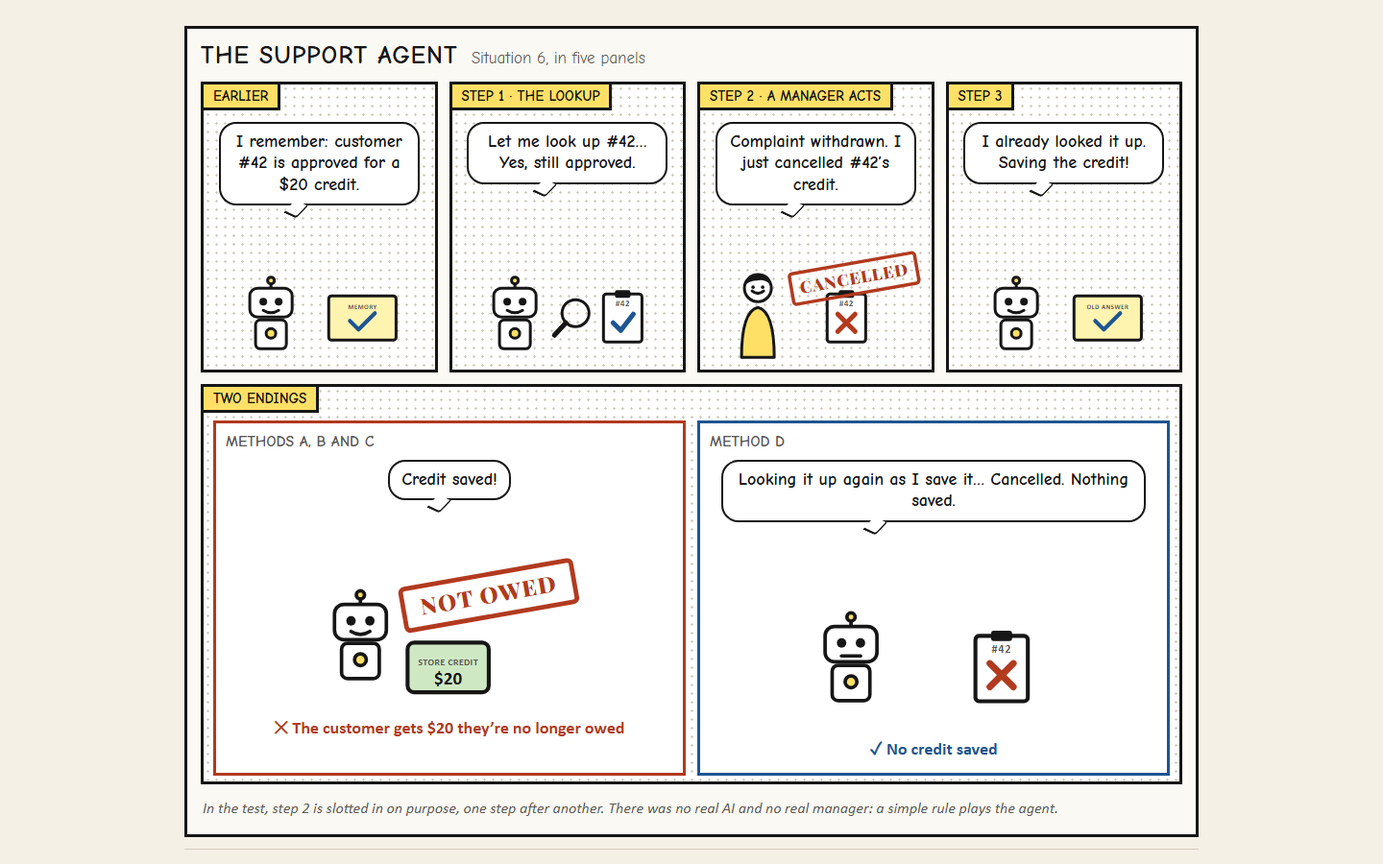
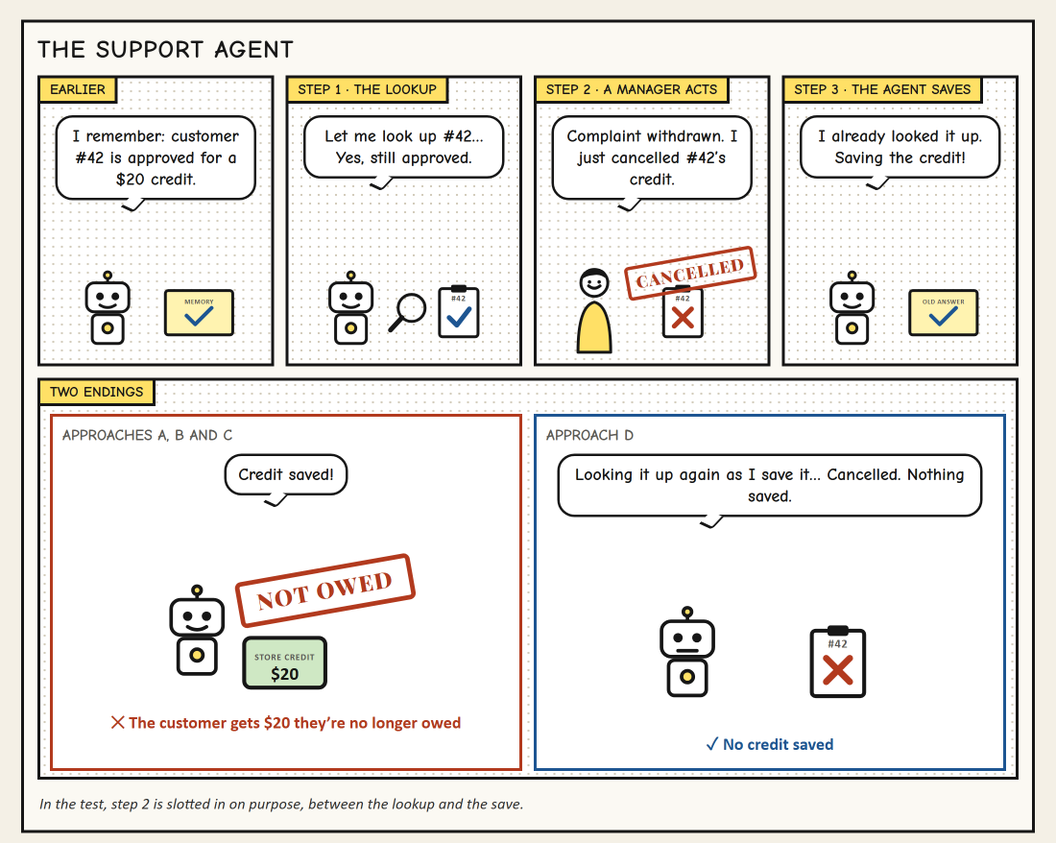
Common-sense pass: clear headings, one vocabulary, no repeats
- Lesson headlines on their own line in the headline font.
- One name per thing: 'approach' (not way/method), 'saved', 'approved'.
- At a glance rewritten without terms the page hasn't explained yet.
- The six situations listed before the results; situation 6 explained
  above the grid and highlighted.
- One line explains wrong decisions vs wrong credits.
- Part 2 rows lettered, and why F and D both score 0.
- Repeated disclaimers cut; 'Feature' label dropped; MemRiskBench
  explained on the homepage; notes larger and darker; back link.

diff --git a/docs/experiments/001-memory-reliability/index.html b/docs/experiments/001-memory-reliability/index.html
@@ -45,25 +45,25 @@
 <main id="main" class="wrap">
 
 <div class="intro article-head">
-  <p class="section-label">Experiment 001 &middot; Feature</p>
+  <p class="section-label">Experiment 001</p>
   <h1>Looking it up first wasn&rsquo;t enough</h1>
   <p class="deck">A manager cancelled a store credit just after an AI support agent looked up the customer&rsquo;s record. The agent saved the credit anyway. What worked: doing the final lookup and the save as one locked database step.</p>
   <p class="byline">By <a href="https://github.com/kishanssg">kishanssg</a> &middot; September 2026 &middot; 5-minute read</p>
-  <p class="for-engineers">For engineers: a time-of-check / time-of-use (TOCTOU) bug in a simulated agent tool call, fixed by doing the final lookup and the write in one locked transaction. Python + SQLite; 24 recorded runs, plus a Part 2 stress test with 9,000 tries per method.</p>
 </div>
 
 <section class="glimpse" aria-labelledby="glimpse-title">
   <h2 id="glimpse-title">At a glance</h2>
   <dl class="glimpse-list">
     <div><dt>The problem</dt><dd>An AI support agent remembered that a customer was approved for a $20 store credit. A manager cancelled the approval just after the agent looked up the customer&rsquo;s record. The agent saved the credit anyway.</dd></div>
-    <div><dt>What I tried</dt><dd>Four ways to stop that, each tested in the same 6 situations.</dd></div>
-    <div><dt>What worked</dt><dd>In the one situation built to test this timing, looking up the record first let the wrong credit through. Looking it up again <em>inside</em> the database step that saves the credit stopped it.</dd></div>
-    <div><dt>Part 2</dt><dd>A stress test with the cancellation landing within a few milliseconds: a second lookup just before saving the credit, done as a separate step, still let it through in about 1 of 6 tries. Doing the lookup and the save as one locked database step let none through.</dd></div>
-    <div><dt>The catch</dt><dd>No method gave more of the credits customers were really owed. Trust memory refused one because its memory was wrong; the three methods that look up the record each refused one because the lookup failed.</dd></div>
-    <div><dt>The lesson</dt><dd>Treat an AI agent&rsquo;s memory as a hint, not the truth: fetch the live answer before acting. And because even a fresh answer can change, the database should confirm the rule again and lock the record at the moment it saves the change.</dd></div>
-    <div><dt>Keep in mind</dt><dd>I tested the safety net around an AI agent, not the AI itself. A simple rule plays the agent, and the whole test is small.</dd></div>
+    <div><dt>What I tried</dt><dd>Four approaches, from &ldquo;trust memory&rdquo; to &ldquo;the database confirms the approval at the moment it saves the credit&rdquo;. Each one ran through the same 6 situations.</dd></div>
+    <div><dt>What worked</dt><dd>Only the approach where the database confirms the approval at the moment of saving stopped the wrong credit. Looking the record up a moment earlier still let it through.</dd></div>
+    <div><dt>Stress test</dt><dd>When the cancellation lands within milliseconds of the save, a second lookup just before saving still let it through in about 1 of 6 tries. A lookup and save done as one locked step let none through.</dd></div>
+    <div><dt>The catch</dt><dd>No approach was better at giving customers the credits they really were owed.</dd></div>
+    <div><dt>The lesson</dt><dd>Treat an AI agent&rsquo;s memory as a hint, not the truth, and let the system confirm the rule at the moment it saves the change.</dd></div>
+    <div><dt>Keep in mind</dt><dd>I tested the safety net around an AI agent, not the AI itself. A simple rule plays the agent, and the test is small.</dd></div>
   </dl>
 </section>
+<p class="for-engineers-below">For engineers: a time-of-check / time-of-use (TOCTOU) bug in a simulated agent tool call, fixed by doing the final lookup and the write in one locked transaction. Python + SQLite; 24 recorded runs, plus a Part 2 stress test with 9,000 tries per approach.</p>
 
 <section id="story" aria-labelledby="story-title">
   <h2 id="story-title">The story</h2>
@@ -77,20 +77,28 @@
 </section>
 
 <section id="experiment" aria-labelledby="experiment-title">
-  <h2 id="experiment-title">The four ways I tried</h2>
+  <h2 id="experiment-title">The four approaches I tried</h2>
   <div class="table-scroll">
     <table class="compare simple">
       <caption>Each one adds a bit more safety than the one before</caption>
-      <thead><tr><th scope="col">Way</th><th scope="col">What it does</th></tr></thead>
+      <thead><tr><th scope="col">Approach</th><th scope="col">What it does</th></tr></thead>
       <tbody>
         <tr><th scope="row"><span class="approach-tag">A</span>Trust memory</th><td data-label="What it does">Uses what it remembers. Never looks anything up.</td></tr>
         <tr><th scope="row"><span class="approach-tag">B</span>Look up first, by choice</th><td data-label="What it does">Looks up the customer&rsquo;s record before giving the credit. Nothing forces it to.</td></tr>
         <tr><th scope="row"><span class="approach-tag">C</span>Look up first, required</th><td data-label="What it does">Same as B, but the credit tool won&rsquo;t run unless a lookup said yes.</td></tr>
-        <tr><th scope="row"><span class="approach-tag">D</span>Look up while saving</th><td data-label="What it does">Same as C, and the credit is only added if the customer is still owed it at that exact moment.</td></tr>
+        <tr><th scope="row"><span class="approach-tag">D</span>Look up while saving</th><td data-label="What it does">Same as C, and the database looks up the record again at the moment it saves, inside one locked step. The credit is only saved if it is still approved.</td></tr>
       </tbody>
     </table>
   </div>
-  <p class="measure muted" style="margin-top:16px">Each way was tested in the same 6 situations, such as &ldquo;nothing changed&rdquo;, &ldquo;memory is wrong&rdquo; and &ldquo;approval cancelled right after the lookup&rdquo;. That makes 24 tests.</p>
+  <p class="measure" style="margin-top:18px">Each approach ran through the same 6 situations, 24 tests in total:</p>
+  <ol class="situations">
+    <li>Nothing changed.</li>
+    <li>Memory wrongly says the credit is approved.</li>
+    <li>Memory wrongly says it isn&rsquo;t approved.</li>
+    <li>The customer&rsquo;s account was closed.</li>
+    <li>The lookup itself fails.</li>
+    <li><strong>The approval is cancelled right after the lookup.</strong> This is the one the experiment is really about.</li>
+  </ol>
 </section>
 
 <section id="results" aria-labelledby="results-title">
@@ -98,12 +106,12 @@
 
   <div class="figure table-scroll">
     <table class="results-table" id="summary-table">
-      <caption>Results by method <span class="muted">(each square is one test)</span></caption>
+      <caption>Results by approach <span class="muted">(each square is one test)</span></caption>
       <thead>
         <tr>
-          <th scope="col">Method</th>
+          <th scope="col">Approach</th>
           <th scope="col">Wrong credits<span class="dir">out of 6 &middot; fewer is better</span></th>
-          <th scope="col">Wrong &ldquo;yes&rdquo; decisions<span class="dir">out of 6 &middot; fewer is better</span></th>
+          <th scope="col">Wrong decisions to give<span class="dir">out of 6 &middot; fewer is better</span></th>
           <th scope="col">Fair credits given<span class="dir">out of 3 &middot; more is better</span></th>
           <th scope="col">Fair credits refused<span class="dir">out of 3 &middot; fewer is better</span></th>
         </tr>
@@ -112,42 +120,43 @@
         <tr>
           <th scope="row"><span class="approach-tag">A</span>Trust memory</th>
           <td data-label="Wrong credits (of 6)"><span class="metric" data-approach="A" data-metric="invalid_commits" data-value="3/6"><span class="segs bad" aria-hidden="true"><i class="on"></i><i class="on"></i><i class="on"></i><i></i><i></i><i></i></span><span class="value">3/6</span></span></td>
-          <td data-label="Wrong “yes” decisions (of 6)"><span class="metric" data-approach="A" data-metric="incorrect_affirmative_recommendations" data-value="2/6"><span class="segs bad" aria-hidden="true"><i class="on"></i><i class="on"></i><i></i><i></i><i></i><i></i></span><span class="value">2/6</span></span></td>
+          <td data-label="Wrong decisions to give (of 6)"><span class="metric" data-approach="A" data-metric="incorrect_affirmative_recommendations" data-value="2/6"><span class="segs bad" aria-hidden="true"><i class="on"></i><i class="on"></i><i></i><i></i><i></i><i></i></span><span class="value">2/6</span></span></td>
           <td data-label="Fair credits given (of 3)"><span class="metric" data-approach="A" data-metric="valid_task_completion" data-value="2/3"><span class="segs good" aria-hidden="true"><i class="on"></i><i class="on"></i><i></i></span><span class="value">2/3</span></span></td>
           <td data-label="Fair credits refused (of 3)"><span class="metric" data-approach="A" data-metric="unnecessary_refusals" data-value="1/3"><span class="segs miss" aria-hidden="true"><i class="on"></i><i></i><i></i></span><span class="value">1/3</span></span></td>
         </tr>
         <tr>
           <th scope="row"><span class="approach-tag">B</span>Look up first, by choice</th>
           <td data-label="Wrong credits (of 6)"><span class="metric" data-approach="B" data-metric="invalid_commits" data-value="1/6"><span class="segs bad" aria-hidden="true"><i class="on"></i><i></i><i></i><i></i><i></i><i></i></span><span class="value">1/6</span></span></td>
-          <td data-label="Wrong “yes” decisions (of 6)"><span class="metric" data-approach="B" data-metric="incorrect_affirmative_recommendations" data-value="0/6"><span class="segs bad" aria-hidden="true"><i></i><i></i><i></i><i></i><i></i><i></i></span><span class="value">0/6</span></span></td>
+          <td data-label="Wrong decisions to give (of 6)"><span class="metric" data-approach="B" data-metric="incorrect_affirmative_recommendations" data-value="0/6"><span class="segs bad" aria-hidden="true"><i></i><i></i><i></i><i></i><i></i><i></i></span><span class="value">0/6</span></span></td>
           <td data-label="Fair credits given (of 3)"><span class="metric" data-approach="B" data-metric="valid_task_completion" data-value="2/3"><span class="segs good" aria-hidden="true"><i class="on"></i><i class="on"></i><i></i></span><span class="value">2/3</span></span></td>
           <td data-label="Fair credits refused (of 3)"><span class="metric" data-approach="B" data-metric="unnecessary_refusals" data-value="1/3"><span class="segs miss" aria-hidden="true"><i class="on"></i><i></i><i></i></span><span class="value">1/3</span></span></td>
         </tr>
         <tr>
           <th scope="row"><span class="approach-tag">C</span>Look up first, required</th>
           <td data-label="Wrong credits (of 6)"><span class="metric" data-approach="C" data-metric="invalid_commits" data-value="1/6"><span class="segs bad" aria-hidden="true"><i class="on"></i><i></i><i></i><i></i><i></i><i></i></span><span class="value">1/6</span></span></td>
-          <td data-label="Wrong “yes” decisions (of 6)"><span class="metric" data-approach="C" data-metric="incorrect_affirmative_recommendations" data-value="0/6"><span class="segs bad" aria-hidden="true"><i></i><i></i><i></i><i></i><i></i><i></i></span><span class="value">0/6</span></span></td>
+          <td data-label="Wrong decisions to give (of 6)"><span class="metric" data-approach="C" data-metric="incorrect_affirmative_recommendations" data-value="0/6"><span class="segs bad" aria-hidden="true"><i></i><i></i><i></i><i></i><i></i><i></i></span><span class="value">0/6</span></span></td>
           <td data-label="Fair credits given (of 3)"><span class="metric" data-approach="C" data-metric="valid_task_completion" data-value="2/3"><span class="segs good" aria-hidden="true"><i class="on"></i><i class="on"></i><i></i></span><span class="value">2/3</span></span></td>
           <td data-label="Fair credits refused (of 3)"><span class="metric" data-approach="C" data-metric="unnecessary_refusals" data-value="1/3"><span class="segs miss" aria-hidden="true"><i class="on"></i><i></i><i></i></span><span class="value">1/3</span></span></td>
         </tr>
         <tr>
           <th scope="row"><span class="approach-tag">D</span>Look up while saving</th>
           <td data-label="Wrong credits (of 6)"><span class="metric" data-approach="D" data-metric="invalid_commits" data-value="0/6"><span class="segs bad" aria-hidden="true"><i></i><i></i><i></i><i></i><i></i><i></i></span><span class="value">0/6</span></span></td>
-          <td data-label="Wrong “yes” decisions (of 6)"><span class="metric" data-approach="D" data-metric="incorrect_affirmative_recommendations" data-value="0/6"><span class="segs bad" aria-hidden="true"><i></i><i></i><i></i><i></i><i></i><i></i></span><span class="value">0/6</span></span></td>
+          <td data-label="Wrong decisions to give (of 6)"><span class="metric" data-approach="D" data-metric="incorrect_affirmative_recommendations" data-value="0/6"><span class="segs bad" aria-hidden="true"><i></i><i></i><i></i><i></i><i></i><i></i></span><span class="value">0/6</span></span></td>
           <td data-label="Fair credits given (of 3)"><span class="metric" data-approach="D" data-metric="valid_task_completion" data-value="2/3"><span class="segs good" aria-hidden="true"><i class="on"></i><i class="on"></i><i></i></span><span class="value">2/3</span></span></td>
           <td data-label="Fair credits refused (of 3)"><span class="metric" data-approach="D" data-metric="unnecessary_refusals" data-value="1/3"><span class="segs miss" aria-hidden="true"><i class="on"></i><i></i><i></i></span><span class="value">1/3</span></span></td>
         </tr>
       </tbody>
     </table>
   </div>
-  <p class="figure-note">B and C give the same results. That&rsquo;s expected: B always chooses to look up the record, so C&rsquo;s extra rule never gets a chance to matter here.</p>
+  <p class="figure-note"><strong>Wrong decisions vs wrong credits:</strong> a wrong decision means the approach decided to give the credit when it wasn&rsquo;t approved at that moment. B and C never decided wrong, yet still saved one wrong credit, because the approval was cancelled <em>after</em> they decided. B and C score the same because B always chooses to look up the record, so C&rsquo;s extra rule never gets a chance to matter.</p>
 
   <div class="figure">
     <h3 id="matrix-title">All 24 tests</h3>
+    <p class="figure-lead">Look at situation 6, the highlighted row: it&rsquo;s the only one where &ldquo;look up while saving&rdquo; did better than &ldquo;look up first&rdquo;.</p>
     <ul class="legend" aria-label="Legend">
-      <li><span class="swatch o-write"></span>Given, correctly</li>
+      <li><span class="swatch o-write"></span>Credit saved, correctly</li>
       <li><span class="swatch o-refuse"></span>Said no, correctly</li>
-      <li><span class="swatch o-blocked"></span>Stopped at the moment of giving</li>
+      <li><span class="swatch o-blocked"></span>Stopped just in time, at the moment of saving</li>
       <li><span class="swatch o-invalid"></span>Wrong credit (no longer approved)</li>
       <li><span class="swatch o-missed"></span>Refused a fair credit</li>
     </ul>
@@ -165,10 +174,10 @@
         <tbody>
           <tr>
             <th scope="row">1. Nothing changed<small>Memory: approved. Truth: approved.</small></th>
-            <td data-label="A &middot; Trust memory"><span class="cell o-write" data-scenario="approved_unchanged" data-approach="A" data-recommended="true" data-committed="true"><b>Given</b><span>memory said yes</span></span></td>
-            <td data-label="B &middot; Look up, by choice"><span class="cell o-write" data-scenario="approved_unchanged" data-approach="B" data-recommended="true" data-committed="true"><b>Given</b><span>lookup said yes</span></span></td>
-            <td data-label="C &middot; Look up, required"><span class="cell o-write" data-scenario="approved_unchanged" data-approach="C" data-recommended="true" data-committed="true"><b>Given</b><span>lookup said yes</span></span></td>
-            <td data-label="D &middot; Look up while saving"><span class="cell o-write" data-scenario="approved_unchanged" data-approach="D" data-recommended="true" data-committed="true"><b>Given</b><span>both lookups said yes</span></span></td>
+            <td data-label="A &middot; Trust memory"><span class="cell o-write" data-scenario="approved_unchanged" data-approach="A" data-recommended="true" data-committed="true"><b>Saved</b><span>memory said yes</span></span></td>
+            <td data-label="B &middot; Look up, by choice"><span class="cell o-write" data-scenario="approved_unchanged" data-approach="B" data-recommended="true" data-committed="true"><b>Saved</b><span>lookup said yes</span></span></td>
+            <td data-label="C &middot; Look up, required"><span class="cell o-write" data-scenario="approved_unchanged" data-approach="C" data-recommended="true" data-committed="true"><b>Saved</b><span>lookup said yes</span></span></td>
+            <td data-label="D &middot; Look up while saving"><span class="cell o-write" data-scenario="approved_unchanged" data-approach="D" data-recommended="true" data-committed="true"><b>Saved</b><span>both lookups said yes</span></span></td>
           </tr>
           <tr>
             <th scope="row">2. Memory wrongly says yes<small>Memory: approved. Truth: approval cancelled.</small></th>
@@ -180,9 +189,9 @@
           <tr>
             <th scope="row">3. Memory wrongly says no<small>Memory: not approved. Truth: approved.</small></th>
             <td data-label="A &middot; Trust memory"><span class="cell o-missed" data-scenario="stale_false" data-approach="A" data-recommended="false" data-committed="false"><b>Refused</b><span>memory said no</span></span></td>
-            <td data-label="B &middot; Look up, by choice"><span class="cell o-write" data-scenario="stale_false" data-approach="B" data-recommended="true" data-committed="true"><b>Given</b><span>lookup said yes</span></span></td>
-            <td data-label="C &middot; Look up, required"><span class="cell o-write" data-scenario="stale_false" data-approach="C" data-recommended="true" data-committed="true"><b>Given</b><span>lookup said yes</span></span></td>
-            <td data-label="D &middot; Look up while saving"><span class="cell o-write" data-scenario="stale_false" data-approach="D" data-recommended="true" data-committed="true"><b>Given</b><span>both lookups said yes</span></span></td>
+            <td data-label="B &middot; Look up, by choice"><span class="cell o-write" data-scenario="stale_false" data-approach="B" data-recommended="true" data-committed="true"><b>Saved</b><span>lookup said yes</span></span></td>
+            <td data-label="C &middot; Look up, required"><span class="cell o-write" data-scenario="stale_false" data-approach="C" data-recommended="true" data-committed="true"><b>Saved</b><span>lookup said yes</span></span></td>
+            <td data-label="D &middot; Look up while saving"><span class="cell o-write" data-scenario="stale_false" data-approach="D" data-recommended="true" data-committed="true"><b>Saved</b><span>both lookups said yes</span></span></td>
           </tr>
           <tr>
             <th scope="row">4. The account was closed<small>Memory: approved. Truth: account closed.</small></th>
@@ -193,17 +202,17 @@
           </tr>
           <tr>
             <th scope="row">5. The lookup fails<small>Memory: approved. Truth: approved. The lookup fails.</small></th>
-            <td data-label="A &middot; Trust memory"><span class="cell o-write" data-scenario="lookup_fails" data-approach="A" data-recommended="true" data-committed="true"><b>Given</b><span>memory said yes</span></span></td>
+            <td data-label="A &middot; Trust memory"><span class="cell o-write" data-scenario="lookup_fails" data-approach="A" data-recommended="true" data-committed="true"><b>Saved</b><span>memory said yes</span></span></td>
             <td data-label="B &middot; Look up, by choice"><span class="cell o-missed" data-scenario="lookup_fails" data-approach="B" data-recommended="false" data-committed="false"><b>Refused</b><span>lookup failed, so no</span></span></td>
             <td data-label="C &middot; Look up, required"><span class="cell o-missed" data-scenario="lookup_fails" data-approach="C" data-recommended="false" data-committed="false"><b>Refused</b><span>lookup failed, so no</span></span></td>
             <td data-label="D &middot; Look up while saving"><span class="cell o-missed" data-scenario="lookup_fails" data-approach="D" data-recommended="false" data-committed="false"><b>Refused</b><span>lookup failed, so no</span></span></td>
           </tr>
-          <tr>
+          <tr class="key-row">
             <th scope="row">6. Approval cancelled right after the lookup<small>Memory: approved. Truth: approved, then cancelled.</small></th>
             <td data-label="A &middot; Trust memory"><span class="cell o-invalid" data-scenario="approval_cancelled" data-approach="A" data-recommended="true" data-committed="true"><b>Wrong credit</b><span>memory said yes</span></span></td>
             <td data-label="B &middot; Look up, by choice"><span class="cell o-invalid" data-scenario="approval_cancelled" data-approach="B" data-recommended="true" data-committed="true"><b>Wrong credit</b><span>lookup was out of date</span></span></td>
             <td data-label="C &middot; Look up, required"><span class="cell o-invalid" data-scenario="approval_cancelled" data-approach="C" data-recommended="true" data-committed="true"><b>Wrong credit</b><span>lookup was out of date</span></span></td>
-            <td data-label="D &middot; Look up while saving"><span class="cell o-blocked" data-scenario="approval_cancelled" data-approach="D" data-recommended="true" data-committed="false"><b>Stopped</b><span>second lookup said no</span></span></td>
+            <td data-label="D &middot; Look up while saving"><span class="cell o-blocked" data-scenario="approval_cancelled" data-approach="D" data-recommended="true" data-committed="false"><b>Stopped in time</b><span>second lookup said no</span></span></td>
           </tr>
         </tbody>
       </table>
@@ -211,9 +220,6 @@
     <p class="figure-note">Each box is one recorded test. The raw records are in <a href="https://github.com/kishanssg/ai-thinking-lab/blob/main/experiments/001-memory-reliability/results/results.json">results.json</a>. Situation 4 is a bit artificial: a real system would reject a closed account. The test removes that safeguard on purpose, to see what memory alone does.</p>
   </div>
 
-  <div class="callout">
-    <p><strong>Row 6 is the one that matters.</strong> It&rsquo;s the only place where &ldquo;look up while saving&rdquo; did better than &ldquo;look up first&rdquo;.</p>
-  </div>
 </section>
 
 <section id="failure" aria-labelledby="failure-title">
@@ -221,7 +227,7 @@
   <p class="measure muted">Situation 6, as a comic strip.</p>
 
   <figure class="comic" aria-labelledby="comic-title">
-    <figcaption class="comic-title" id="comic-title">The Support Agent <span>Situation 6, in five panels</span></figcaption>
+    <figcaption class="comic-title" id="comic-title">The Support Agent</figcaption>
     <div class="panels">
       <div class="panel">
         <p class="caption-box"><span class="sr-only">Panel 1, </span>Earlier</p>
@@ -239,7 +245,7 @@
         <svg viewBox="0 0 220 150" class="scene" role="img" aria-label="A manager stands by customer 42, whose record now shows a red cross and a stamp saying cancelled."><g transform="translate(25 52)"><path d="M8 92 Q8 44 25 40 Q42 44 42 92 Z" class="ink fill-shirt2"/><circle cx="25" cy="20" r="14" class="ink fill-panel"/><path d="M11 17 Q14 4 26 5 Q38 5 39 17 Q32 10 24 12 Q17 12 11 17 Z" class="fill-ink"/><circle cx="20" cy="19" r="1.8" class="fill-ink"/><circle cx="30" cy="19" r="1.8" class="fill-ink"/><path d="M19 23 Q25 28 31 23" class="ink"/></g><g transform="translate(120 72)"><rect x="2" y="6" width="40" height="50" rx="3" class="ink fill-white"/><rect x="14" y="2" width="16" height="8" rx="2" class="fill-ink"/><text x="22" y="19" class="svg-label" text-anchor="middle" style="font-size:9px">#42</text><path d="M13 27 L31 45 M31 27 L13 45" class="ink no-stroke" style="stroke-width:5"/></g><g transform="translate(150 62) rotate(-10)"><rect x="-66.0" y="-16" width="132" height="32" rx="3" class="stamp-no"/><text x="0" y="6" text-anchor="middle" class="stamp-text stamp-text-no">CANCELLED</text></g></svg>
       </div>
       <div class="panel">
-        <p class="caption-box"><span class="sr-only">Panel 4, </span>Step 3</p>
+        <p class="caption-box"><span class="sr-only">Panel 4, </span>Step 3 &middot; The agent saves</p>
         <p class="bubble"><span class="sr-only">The agent says: </span>I already looked it up. Saving the credit!</p>
         <svg viewBox="0 0 220 150" class="scene" role="img" aria-label="The agent holds up its old note that still says yes."><g transform="translate(30 60) scale(1.0)"><line x1="30" y1="3" x2="30" y2="12" class="ink"/><circle cx="30" cy="4" r="3.5" class="ink fill-accent"/><rect x="8" y="12" width="44" height="30" rx="8" class="ink fill-panel"/><circle cx="22" cy="26" r="4" class="fill-ink"/><circle cx="38" cy="26" r="4" class="fill-ink"/><path d="M22 35 Q30 40 38 35" class="ink"/><rect x="14" y="45" width="32" height="30" rx="5" class="ink fill-panel"/><circle cx="30" cy="59" r="5" class="ink fill-accent"/></g><g transform="translate(120 80)"><rect x="0" y="0" width="70" height="46" rx="3" class="ink fill-note"/><text x="35" y="14" class="svg-label" text-anchor="middle">OLD ANSWER</text><path d="M22 26 L31 35 L48 18" class="ink ok-stroke" style="stroke-width:4"/></g></svg>
       </div>
@@ -247,13 +253,13 @@
         <p class="caption-box"><span class="sr-only">Panel 5, </span>Two endings</p>
         <div class="split">
           <div class="half o-invalid">
-            <p class="half-label">Methods A, B and C</p>
+            <p class="half-label">Approaches A, B and C</p>
             <p class="bubble"><span class="sr-only">The agent says: </span>Credit saved!</p>
             <svg viewBox="0 0 220 150" class="scene" role="img" aria-label="The agent saves a $20 store credit. A red stamp says not owed."><g transform="translate(15 60) scale(0.9)"><line x1="30" y1="3" x2="30" y2="12" class="ink"/><circle cx="30" cy="4" r="3.5" class="ink fill-accent"/><rect x="8" y="12" width="44" height="30" rx="8" class="ink fill-panel"/><circle cx="22" cy="26" r="4" class="fill-ink"/><circle cx="38" cy="26" r="4" class="fill-ink"/><path d="M22 35 Q30 40 38 35" class="ink"/><rect x="14" y="45" width="32" height="30" rx="5" class="ink fill-panel"/><circle cx="30" cy="59" r="5" class="ink fill-accent"/></g><g transform="translate(78 100)"><rect x="0" y="0" width="62" height="38" rx="5" class="ink fill-cash"/><text x="31" y="17" class="svg-label" text-anchor="middle">STORE CREDIT</text><text x="31" y="32" class="svg-cash" text-anchor="middle">$20</text></g><g transform="translate(140 64) rotate(-10)"><rect x="-66.0" y="-16" width="132" height="32" rx="3" class="stamp-no"/><text x="0" y="6" text-anchor="middle" class="stamp-text stamp-text-no">NOT OWED</text></g></svg>
             <p class="verdict"><span aria-hidden="true">&#10005;</span> The customer gets $20 they&rsquo;re no longer owed</p>
           </div>
           <div class="half o-blocked">
-            <p class="half-label">Method D</p>
+            <p class="half-label">Approach D</p>
             <p class="bubble"><span class="sr-only">The agent says: </span>Looking it up again as I save it&hellip; Cancelled. Nothing saved.</p>
             <svg viewBox="0 0 220 150" class="scene" role="img" aria-label="The agent checks customer 42 again while adding the credit and sees the red cross."><g transform="translate(20 60) scale(0.9)"><line x1="30" y1="3" x2="30" y2="12" class="ink"/><circle cx="30" cy="4" r="3.5" class="ink fill-accent"/><rect x="8" y="12" width="44" height="30" rx="8" class="ink fill-panel"/><circle cx="22" cy="26" r="4" class="fill-ink"/><circle cx="38" cy="26" r="4" class="fill-ink"/><path d="M22 37 L38 37" class="ink"/><rect x="14" y="45" width="32" height="30" rx="5" class="ink fill-panel"/><circle cx="30" cy="59" r="5" class="ink fill-accent"/></g><g transform="translate(140 72)"><rect x="2" y="6" width="40" height="50" rx="3" class="ink fill-white"/><rect x="14" y="2" width="16" height="8" rx="2" class="fill-ink"/><text x="22" y="19" class="svg-label" text-anchor="middle" style="font-size:9px">#42</text><path d="M13 27 L31 45 M31 27 L13 45" class="ink no-stroke" style="stroke-width:5"/></g></svg>
             <p class="verdict"><span aria-hidden="true">&#10003;</span> No credit saved</p>
@@ -261,7 +267,7 @@
         </div>
       </div>
     </div>
-    <p class="comic-note">In the test, step 2 is slotted in on purpose, one step after another. There was no real AI and no real manager: a simple rule plays the agent.</p>
+    <p class="comic-note">In the test, step 2 is slotted in on purpose, between the lookup and the save.</p>
   </figure>
 
   <details class="eng">
@@ -277,7 +283,7 @@ COMMIT;</code></pre>
     </div>
   </details>
   <details class="eng">
-    <summary>For engineers: recorded trace, situation 6, method C <span class="muted">(wrong credit)</span></summary>
+    <summary>For engineers: recorded trace, situation 6, approach C <span class="muted">(wrong credit)</span></summary>
 <pre tabindex="0" data-trace="approval_cancelled/C"><code>[
   {"kind": "ground_truth", "phase": "initial", "state": true, "memory": true},
   {"kind": "verification", "approved": true, "reason": "approved"},
@@ -289,7 +295,7 @@ COMMIT;</code></pre>
 ]</code></pre>
   </details>
   <details class="eng">
-    <summary>For engineers: recorded trace, situation 6, method D <span class="muted">(stopped)</span></summary>
+    <summary>For engineers: recorded trace, situation 6, approach D <span class="muted">(stopped)</span></summary>
 <pre tabindex="0" data-trace="approval_cancelled/D"><code>[
   {"kind": "ground_truth", "phase": "initial", "state": true, "memory": true},
   {"kind": "verification", "approved": true, "reason": "approved"},
@@ -305,22 +311,22 @@ COMMIT;</code></pre>
 <section id="part-2" aria-labelledby="part2-title">
   <h2 id="part2-title">Part 2: a real stress test</h2>
   <div class="prose measure">
-    <p>The test above couldn&rsquo;t tell whether the special guarded step mattered, or whether any late second lookup would do. So I ran a tougher version as Part 2 of this experiment. This time the manager&rsquo;s cancellation really raced the agent, landing within a few milliseconds of it, 3,000 times per method, three runs.</p>
+    <p>The test above couldn&rsquo;t tell whether the special guarded step mattered, or whether any late second lookup would do. So I ran a tougher version as Part 2 of this experiment. This time the manager&rsquo;s cancellation really raced the agent, landing within a few milliseconds of it, 3,000 times per approach, three runs.</p>
   </div>
   <div class="table-scroll">
     <table class="compare simple part2-table">
       <caption>Wrong credits when the cancellation really races the agent</caption>
-      <thead><tr><th scope="col">Method</th><th scope="col">Wrong credits</th><th scope="col">What it does</th></tr></thead>
+      <thead><tr><th scope="col">Approach</th><th scope="col">Wrong credits</th><th scope="col">What it does</th></tr></thead>
       <tbody>
-        <tr><th scope="row">Look up first, required</th><td><span class="metric" data-exp="part2" data-approach="C" data-value="2617/9000"><span class="value">2,617 of 9,000</span> (29%)</span></td><td class="note">The same as method C above.</td></tr>
-        <tr><th scope="row">Look up again just before saving</th><td><span class="metric" data-exp="part2" data-approach="E" data-value="1611/9000"><span class="value">1,611 of 9,000</span> (18%)</span></td><td class="note">Looks up the record again right before saving the credit, as a separate step.</td></tr>
-        <tr><th scope="row">Look up and save as one locked step</th><td><span class="metric" data-exp="part2" data-approach="F" data-value="0/9000"><span class="value">0 of 9,000</span></span></td><td class="note">Looks up the record and saves the credit inside one write transaction that locks out other changes.</td></tr>
-        <tr><th scope="row">Look up while saving (method D)</th><td><span class="metric" data-exp="part2" data-approach="D" data-value="0/9000"><span class="value">0 of 9,000</span></span></td><td class="note">The guarded step from above, inside a transaction.</td></tr>
+        <tr><th scope="row">C &middot; Look up first, required</th><td><span class="metric" data-exp="part2" data-approach="C" data-value="2617/9000"><span class="value">2,617 of 9,000</span> (29%)</span></td><td class="note">Approach C from above: look up first, then save as a separate step.</td></tr>
+        <tr><th scope="row">E &middot; Look up again just before saving</th><td><span class="metric" data-exp="part2" data-approach="E" data-value="1611/9000"><span class="value">1,611 of 9,000</span> (18%)</span></td><td class="note">Looks up the record again right before saving the credit, as a separate step.</td></tr>
+        <tr><th scope="row">F &middot; Look up and save as one locked step</th><td><span class="metric" data-exp="part2" data-approach="F" data-value="0/9000"><span class="value">0 of 9,000</span></span></td><td class="note">Looks up the record and saves the credit inside one write transaction that locks out other changes.</td></tr>
+        <tr><th scope="row">D &middot; Look up while saving</th><td><span class="metric" data-exp="part2" data-approach="D" data-value="0/9000"><span class="value">0 of 9,000</span></span></td><td class="note">Approach D from above: the lookup is part of the save command, inside the lock.</td></tr>
       </tbody>
     </table>
   </div>
   <div class="prose measure">
-    <p><strong>A quick second lookup isn&rsquo;t enough.</strong> What works is making the final lookup and the save one locked step, so nothing can change in between. In SQLite, a write transaction does that because it locks out other writers. Postgres would need an explicit row lock. The special guarded step wasn&rsquo;t the important part.</p>
+    <p><strong>A quick second lookup isn&rsquo;t enough.</strong> What works is making the final lookup and the save one locked step, so nothing can change in between. F and D both score 0 for the same reason: the final lookup happens while the record is locked. F does the lookup and the save as two commands inside the lock; D does them as one command. So the lock is what matters, not the special command. (In SQLite, a write transaction is that lock; Postgres would need an explicit row lock.)</p>
   </div>
   <p class="measure small muted">These rates come from one laptop and change from run to run. Zero is what the database&rsquo;s locking should guarantee, but it&rsquo;s still an observation, not a proof. Only SQLite was tested. <a href="https://github.com/kishanssg/ai-thinking-lab/blob/main/experiments/001-memory-reliability/part-2-stress-test/README.md">Code, method and full results</a>.</p>
 </section>
@@ -331,7 +337,6 @@ COMMIT;</code></pre>
     <p><strong>1. An AI agent&rsquo;s memory is a hint, not the truth.</strong> Anything it remembers from earlier (an approval, a permission, an address) may have changed since. Trusting memory caused 3 wrong credits out of 6. Before acting, the agent should fetch the live answer from the real system.</p>
     <p><strong>2. Even a fresh answer can go out of date before the agent acts.</strong> Looking the record up first still let 1 wrong credit through. So the system that saves the change should confirm the rule itself at that exact moment, and lock the record until the save is done. It&rsquo;s like a shop confirming your coupon at the till, not when you walked in the door.</p>
     <p><strong>3. Safer doesn&rsquo;t mean more helpful.</strong> The safest approach stopped every wrong credit, but it still turned away a customer who was owed one, just like the other approaches. When the lookup itself failed, it said no to be safe. That&rsquo;s probably the right call with money, but it&rsquo;s still a cost, and I only noticed it because I counted wrong credits and missed credits separately.</p>
-    <p>If you build AI agents that change real things (add money, send messages, book slots): treat memory as a hint, fetch live data before acting, and make the tool that saves the change confirm the rule at that moment.</p>
   </div>
 </section>
 
@@ -340,7 +345,7 @@ COMMIT;</code></pre>
   <div class="prose measure">
     <ul>
       <li>Would this hold on other databases? On Postgres, the same trick can still fail unless you add a lock. I haven&rsquo;t tested that.</li>
-      <li>What if the record changes after the credit is added? Method D doesn&rsquo;t handle that.</li>
+      <li>What if the record changes after the credit is saved? Approach D doesn&rsquo;t handle that.</li>
       <li>What should the agent do when it hears &ldquo;cancelled&rdquo;? Tell the customer, look up the record again later, or ask a person?</li>
       <li>What would a real AI model do in the agent&rsquo;s place? That&rsquo;s a good next experiment.</li>
     </ul>
@@ -354,7 +359,7 @@ COMMIT;</code></pre>
       <li>No AI model was used. A simple fixed rule plays the part of the agent.</li>
       <li>It&rsquo;s small: 6 made-up situations and one yes/no rule.</li>
       <li>In this test nothing happens at the same time; the change in situation 6 is slotted in on purpose. Part 2 covers real timing, on one laptop and SQLite only.</li>
-      <li>The paper doesn&rsquo;t test this timing gap. This is my own extension, not a copy of the MemRiskBench study.</li>
+      <li>It&rsquo;s not a copy of the MemRiskBench study and doesn&rsquo;t repeat its results.</li>
     </ul>
   </div>
 </section>
@@ -373,7 +378,7 @@ python3 experiments/001-memory-reliability/experiment.py --output my-run.json</c
     <div class="measure">
       <ul>
         <li><strong>Wrong credits</strong> (invalid commits): an action saved when it wasn&rsquo;t allowed at that moment. Out of all 6.</li>
-        <li><strong>Wrong &ldquo;yes&rdquo; decisions</strong>: the method decided to act when it wasn&rsquo;t allowed at decision time. Out of all 6.</li>
+        <li><strong>Wrong decisions to give</strong>: the approach decided to give the credit when it wasn&rsquo;t approved at decision time. Out of all 6.</li>
         <li><strong>Fair credits given</strong>: allowed at save time, and done. Out of the 3 situations where it was allowed (1, 3 and 5).</li>
         <li><strong>Fair credits refused</strong>: allowed at save time, but refused. Out of the same 3.</li>
       </ul>
@@ -391,6 +396,8 @@ python3 experiments/001-memory-reliability/experiment.py --output my-run.json</c
     </ul>
   </details>
 </section>
+
+<p class="back-link"><a href="../../#experiments">&larr; Back to all experiments</a></p>
 
 </main>
 

diff --git a/docs/assets/site.css b/docs/assets/site.css
@@ -578,3 +578,26 @@ h1, h2, .banner, .mast-title, caption { font-variant-numeric: lining-nums; }
 }
 
 #main > .front-lead:first-child { margin-top: 36px; }
+
+/* Lesson headlines on their own line, in the headline font */
+#lessons li > strong:first-child,
+#learned p > strong:first-child {
+  display: block;
+  font: 900 22px/1.25 var(--head);
+  color: var(--ink);
+  margin-bottom: 4px;
+}
+#lessons li { margin-bottom: 18px; }
+#learned p { margin-bottom: 20px; }
+
+/* Common-sense pass */
+.figure-note, .compare.simple td.note, .legend, .scope, .comic-note { font-size: 16.5px; color: var(--ink-2); }
+.figure-lead { font-size: 18px; margin: 0 0 12px; max-width: var(--text); }
+.matrix tr.key-row th, .matrix tr.key-row td { background: var(--caption-soft, rgba(255, 224, 102, 0.28)); }
+.matrix tr.key-row th { padding-left: 8px; }
+.situations { margin: 6px 0 0; padding-left: 1.4em; max-width: var(--text); font-size: 18px; line-height: 1.55; }
+.situations li { margin-bottom: 4px; }
+.for-engineers-below { margin: 14px 0 0; font-size: 16px; color: var(--muted); max-width: var(--text); }
+.back-link { margin: 48px 0 0; font-size: 18px; font-weight: 600; }
+.back-link a { text-decoration: none; }
+.back-link a:hover { text-decoration: underline; }

diff --git a/docs/index.html b/docs/index.html
@@ -69,7 +69,7 @@
       <tbody>
         <tr>
           <td class="num">001</td>
-          <td><a href="experiments/001-memory-reliability/"><strong>Looking it up first wasn&rsquo;t enough</strong></a><br><span class="small muted">From the MemRiskBench paper &middot; Sep 2026</span></td>
+          <td><a href="experiments/001-memory-reliability/"><strong>Looking it up first wasn&rsquo;t enough</strong></a><br><span class="small muted">From MemRiskBench, a study of AI memory mistakes &middot; Sep 2026</span></td>
           <td class="q">A manager cancelled a store credit just after an AI support agent looked up the customer&rsquo;s record, and the agent saved it anyway. Even a second lookup right before saving let some through under real timing; only doing the final lookup and the save as one locked database step stopped them all.</td>
           <td class="small"><a href="experiments/001-memory-reliability/">Read</a><br><a href="https://github.com/kishanssg/ai-thinking-lab/tree/main/experiments/001-memory-reliability">Code</a></td>
         </tr>
